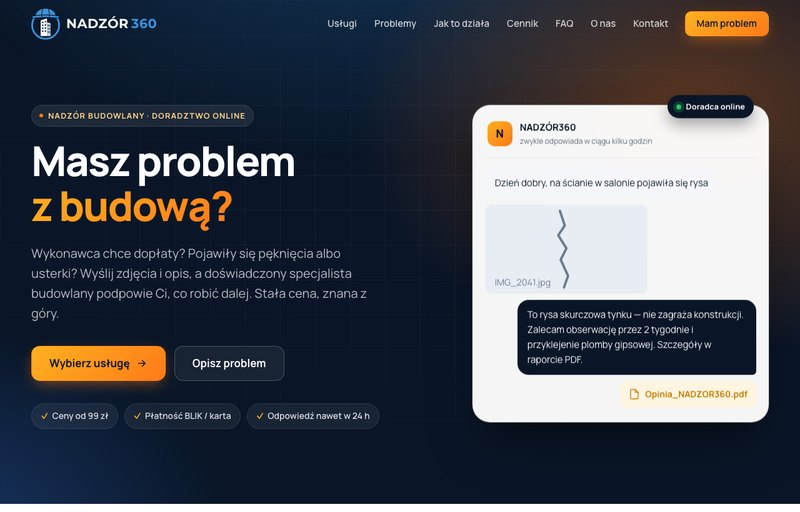
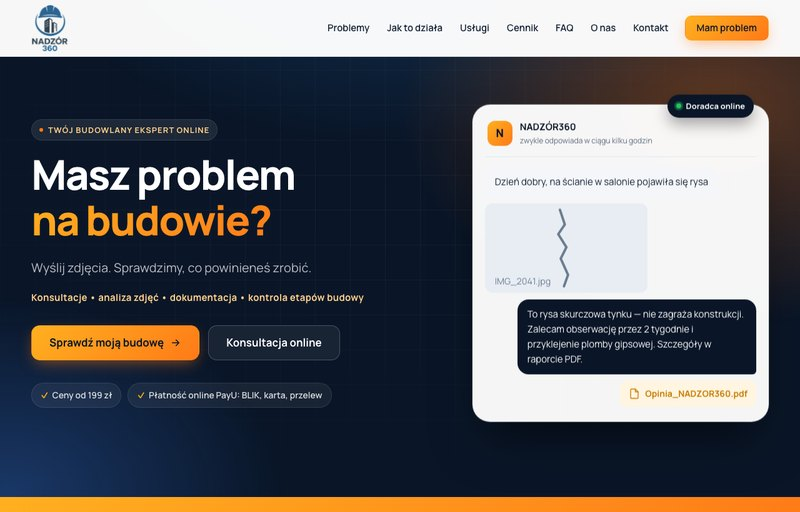
Portfolio: dodaj EUCF 2026, New Hope Church, EKOMASZ2 (rowery); NADZÓR360 -> live nadzor360.com.pl + Zrealizowany

diff --git a/index.html b/index.html
@@ -749,6 +749,33 @@
 
       <div class="work-grid">
         <article class="work reveal">
+          <div class="thumb"><img src="shots/eucf.jpg" alt="EUCF — European-Ukrainian Christian Forum — podgląd strony" loading="lazy" width="780" height="500"><span class="done">Zrealizowany</span></div>
+          <div class="body">
+            <h3>EUCF 2026</h3>
+            <div class="tag">Strona wydarzenia</div>
+            <p>Strona międzynarodowego forum chrześcijańskiego w Brukseli (EN/UA) — program, prelegenci i rejestracja uczestników online.</p>
+            <a class="link" href="https://eucf.info" target="_blank" rel="noopener">Zobacz stronę <span class="ar">→</span></a>
+          </div>
+        </article>
+        <article class="work reveal">
+          <div class="thumb"><img src="shots/new-hope-church.jpg" alt="New Hope Church — podgląd strony" loading="lazy" width="780" height="500"><span class="done">Zrealizowany</span></div>
+          <div class="body">
+            <h3>New Hope Church</h3>
+            <div class="tag">Strona · wielojęzyczna</div>
+            <p>Strona wspólnoty chrześcijańskiej w Bielsku-Białej — wielojęzyczna (UA/PL/EN), z licznikiem do nabożeństwa i integracją z social media.</p>
+            <a class="link" href="https://newhope77.github.io/new-hope-church/" target="_blank" rel="noopener">Zobacz stronę <span class="ar">→</span></a>
+          </div>
+        </article>
+        <article class="work reveal">
+          <div class="thumb"><img src="shots/rowery.jpg" alt="EKOMASZ2 — sklep z rowerami elektrycznymi — podgląd strony" loading="lazy" width="780" height="500"><span class="done">Zrealizowany</span></div>
+          <div class="body">
+            <h3>EKOMASZ2 — rowery elektryczne</h3>
+            <div class="tag">Sklep internetowy</div>
+            <p>Sklep internetowy z rowerami elektrycznymi — katalog, koszyk i checkout, nowoczesny design z trybem ciemnym.</p>
+            <a class="link" href="https://newhope77.github.io/ekomasz2-sklep/" target="_blank" rel="noopener">Zobacz stronę <span class="ar">→</span></a>
+          </div>
+        </article>
+        <article class="work reveal">
           <div class="thumb"><img src="shots/zlota-raczka.jpg" alt="Złota rączka Bielsko-Biała — podgląd strony" loading="lazy" width="780" height="500"><span class="done">Zrealizowany</span></div>
           <div class="body">
             <h3>Złota Rączka Bielsko-Biała</h3>
@@ -758,12 +785,12 @@
           </div>
         </article>
         <article class="work reveal">
-          <div class="thumb"><img src="shots/nadzor360.jpg" alt="NADZÓR360 — podgląd strony" loading="lazy" width="780" height="500"><span class="wip">Projekt w toku</span></div>
+          <div class="thumb"><img src="shots/nadzor360.jpg" alt="NADZÓR360 — podgląd strony" loading="lazy" width="780" height="500"><span class="done">Zrealizowany</span></div>
           <div class="body">
             <h3>NADZÓR360</h3>
             <div class="tag">Strona + usługa online</div>
-            <p>Nadzór budowlany i doradztwo online — klient wysyła zdjęcia usterki, a specjalista odpowiada. Strona z cennikiem i formularzem zgłoszenia.</p>
-            <a class="link" href="https://newhope77.github.io/nadzor360/" target="_blank" rel="noopener">Zobacz stronę <span class="ar">→</span></a>
+            <p>Doradztwo budowlane online z płatnościami — klient wysyła zdjęcia usterki, a specjalista odpowiada. Strona z cennikiem, formularzem i płatnością online (PayU).</p>
+            <a class="link" href="https://nadzor360.com.pl" target="_blank" rel="noopener">Zobacz stronę <span class="ar">→</span></a>
           </div>
         </article>
         <article class="work reveal">
